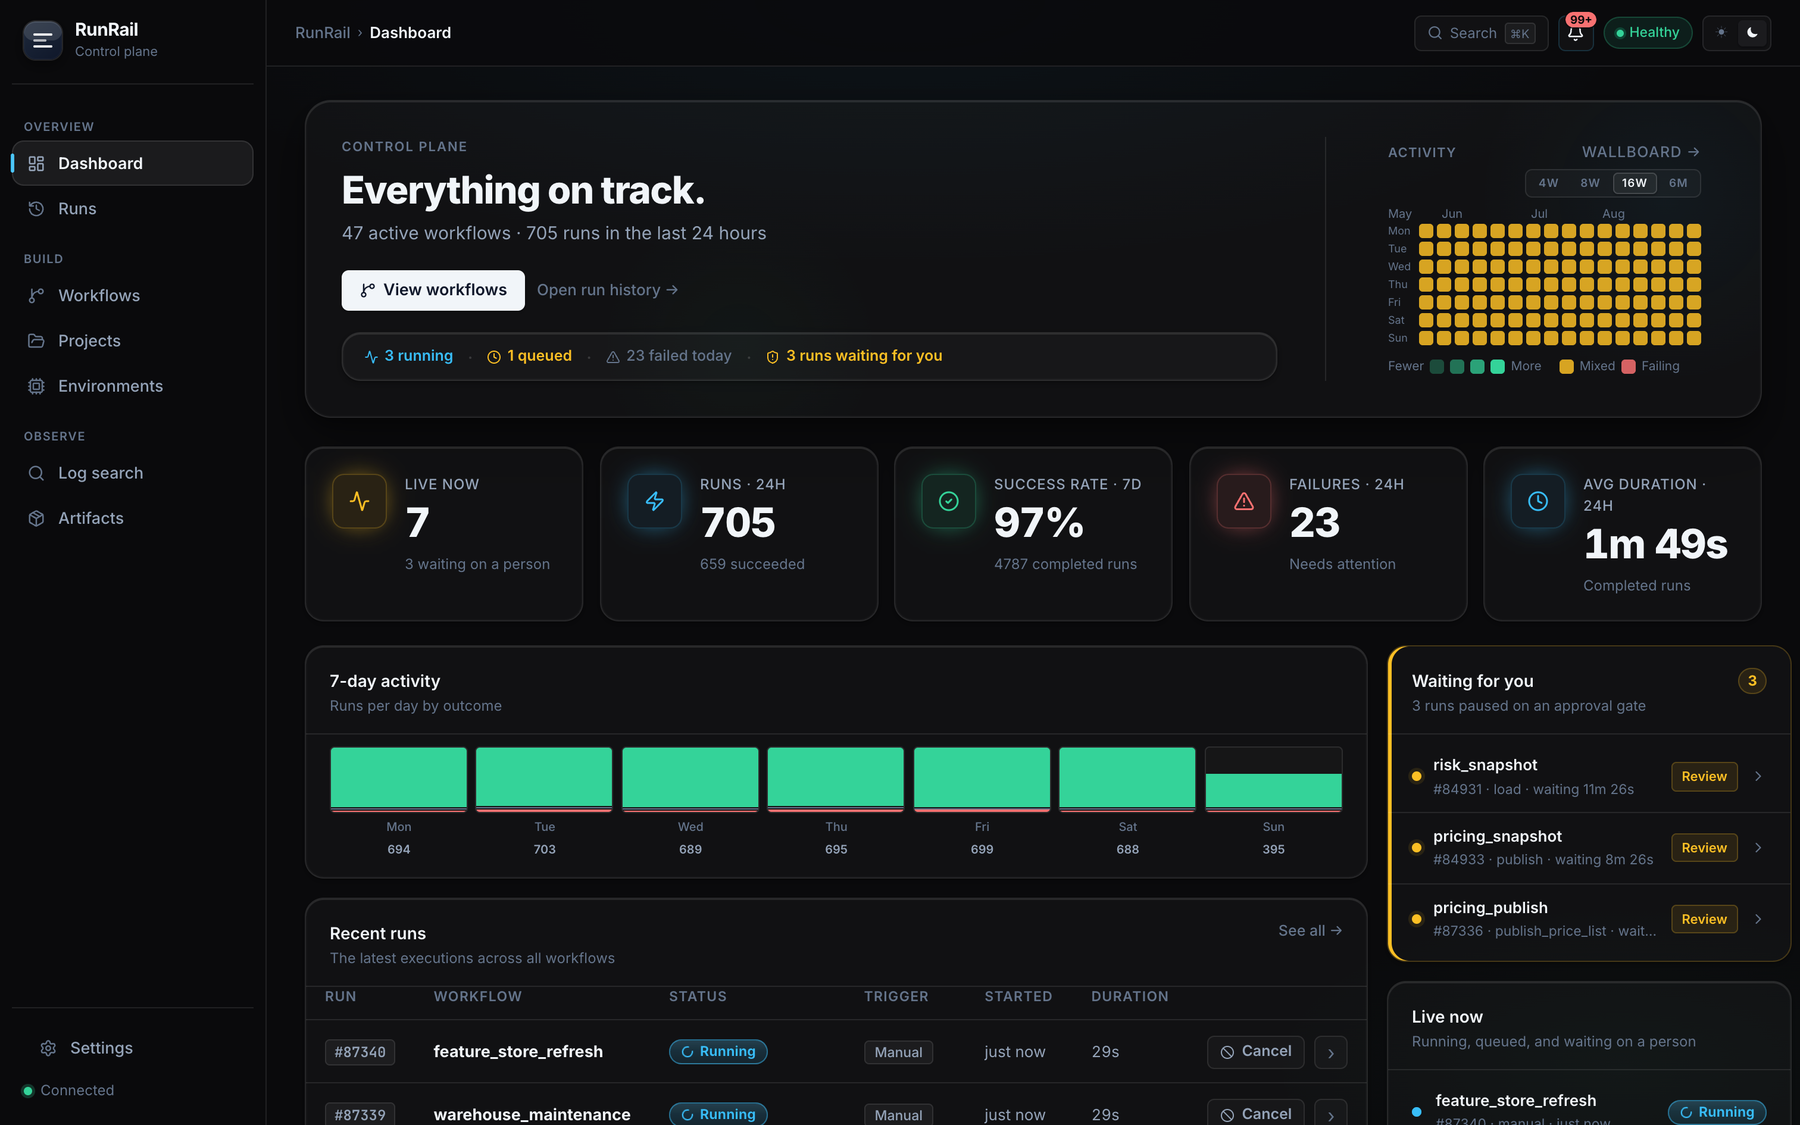
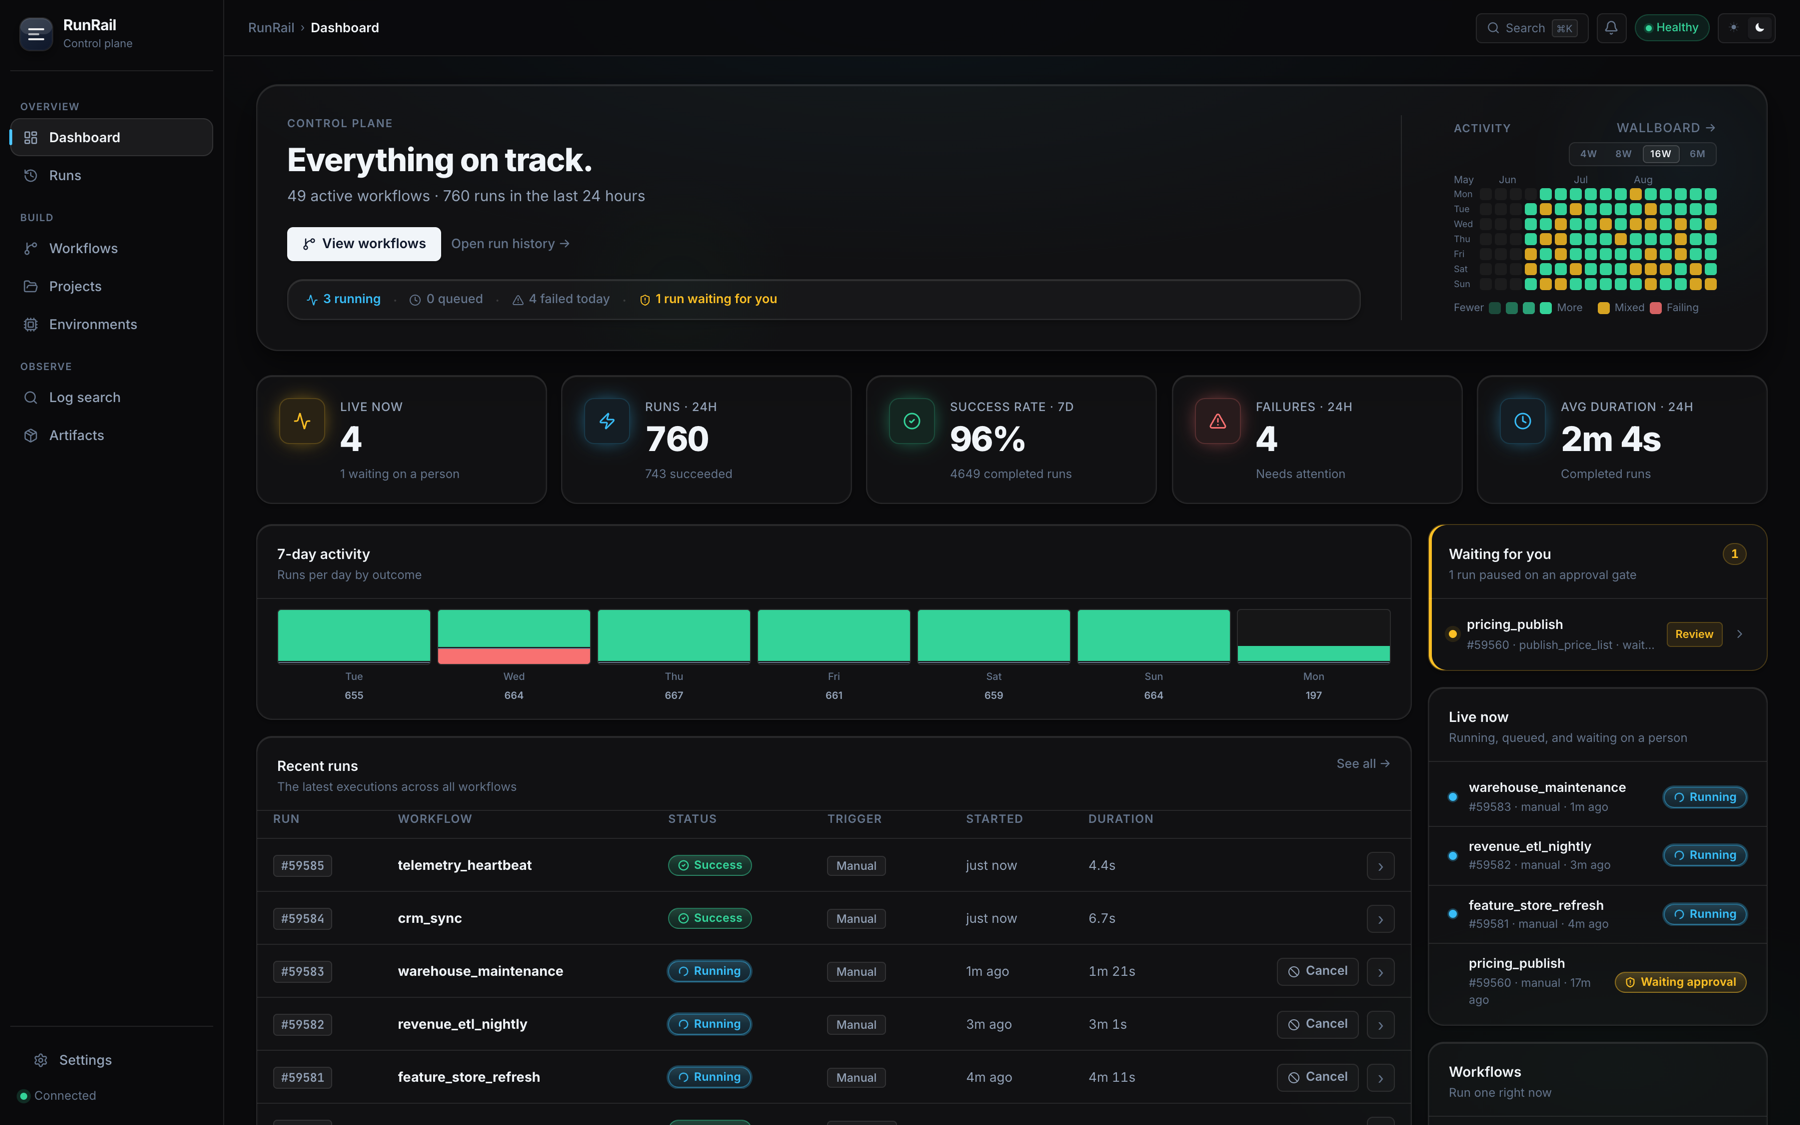
docs: open the README with the demo and a sixty-second first run, and reshoot both captures
The wallboard GIF now films real runs: two fast workflows complete on
camera, one long one crosses its median and turns amber mid-loop, and an
approval gate sits parked — the states the caption beneath it claims.
Captured at 2x device pixels through a screenshot loop, because headless
Chromium's screencast silently tops out at CSS resolution, and shipped at
1760px: retina density at GitHub's render width. The dashboard shot is
re-taken dark from the reseeded home, since headless Chrome defaults to a
light color scheme.

In the README itself: the one genuinely broken link fixed (a bare URL inside
bold, which GFM autolinking mangles), a stronger opening line, a
copy-pasteable sixty-second quick start validated end-to-end against a
scratch home, and the visuals moved above the fold.

diff --git a/README.md b/README.md
@@ -1,11 +1,15 @@
 # RunRail
 
-A scheduler with a web UI for the scripts, notebooks and queries you already have.
+Give the scripts, notebooks and queries you already have schedules, retries, approvals and a full run history. One process, one SQLite file, no rewrites.
 
 [![CI](https://github.com/rutr-labs/runrail/actions/workflows/ci.yml/badge.svg)](https://github.com/rutr-labs/runrail/actions/workflows/ci.yml)
 [![PyPI](https://img.shields.io/pypi/v/runrail.svg)](https://pypi.org/project/runrail/)
 [![License: Apache-2.0](https://img.shields.io/badge/license-Apache--2.0-blue.svg)](LICENSE)
 ![Python 3.11+](https://img.shields.io/badge/python-3.11%2B-blue)
+
+![Live wallboard](docs/img/demo.gif)
+
+*The wallboard. Each bar runs against that workflow's own median duration and turns amber when a run goes over.*
 
 A task in RunRail is a command:
 
@@ -15,11 +19,33 @@ python scripts/refresh_sales.py --date {{ ds }}
 
 That is the whole configuration. Nothing is imported into your code, and there is no DAG file to keep in sync with it. RunRail runs that command on a schedule, in a Python environment you declare, and keeps the logs, the timings and the history.
 
-It installs as one process with one SQLite file behind it:
+## Sixty seconds to a first run
 
 ```bash
-pipx install runrail && runrail serve
+pipx install runrail     # or: pip install runrail
+runrail serve            # first launch asks about importing; press Enter to start fresh
 ```
+
+Then, in a second terminal:
+
+```bash
+cat > hello.yml <<'YAML'
+workflows:
+  - name: hello
+    schedule_cron: "*/5 * * * *"
+    tasks:
+      - name: say-hello
+        task_type: shell
+        command: echo "hello from RunRail at {{ ts }}"
+YAML
+
+runrail apply hello.yml
+runrail run hello
+```
+
+Open [http://127.0.0.1:8080](http://127.0.0.1:8080). The run is in the history with its logs, and the schedule fires again inside five minutes. The YAML is optional, by the way: everything in that file can be done in the UI, and most things are easier there.
+
+A few workflows later, the dashboard looks like this:
 
 ![RunRail dashboard](docs/img/01-dashboard.png)
 
@@ -47,22 +73,9 @@ A run waiting on approval, showing the prompt from whoever built the workflow an
 
 ![Approval gate](docs/img/05-approval.png)
 
-The wallboard, for a screen on the wall. Progress runs against each workflow's own median duration and turns amber when a run goes over.
-
-![Live wallboard](docs/img/demo.gif)
-
 ## Install
 
-One package, with the web UI already built into it. Python 3.11 or newer, nothing else.
-
-```bash
-pipx install runrail    # isolated, recommended. Or: pip install runrail
-runrail serve
-```
-
-The first launch offers to import an existing setup. Press Enter to start fresh, then open **http://127.0.0.1:8080**.
-
-Startup takes about 0.6 seconds, including creating the database and applying migrations. It settles at roughly 96 MB as a single process and stays there.
+One package with the web UI already built into it. Python 3.11 or newer, nothing else. Startup takes about 0.6 seconds, including creating the database and applying migrations, and the whole thing settles at roughly 96 MB as a single process.
 
 Data lives in a per-user directory:
 
